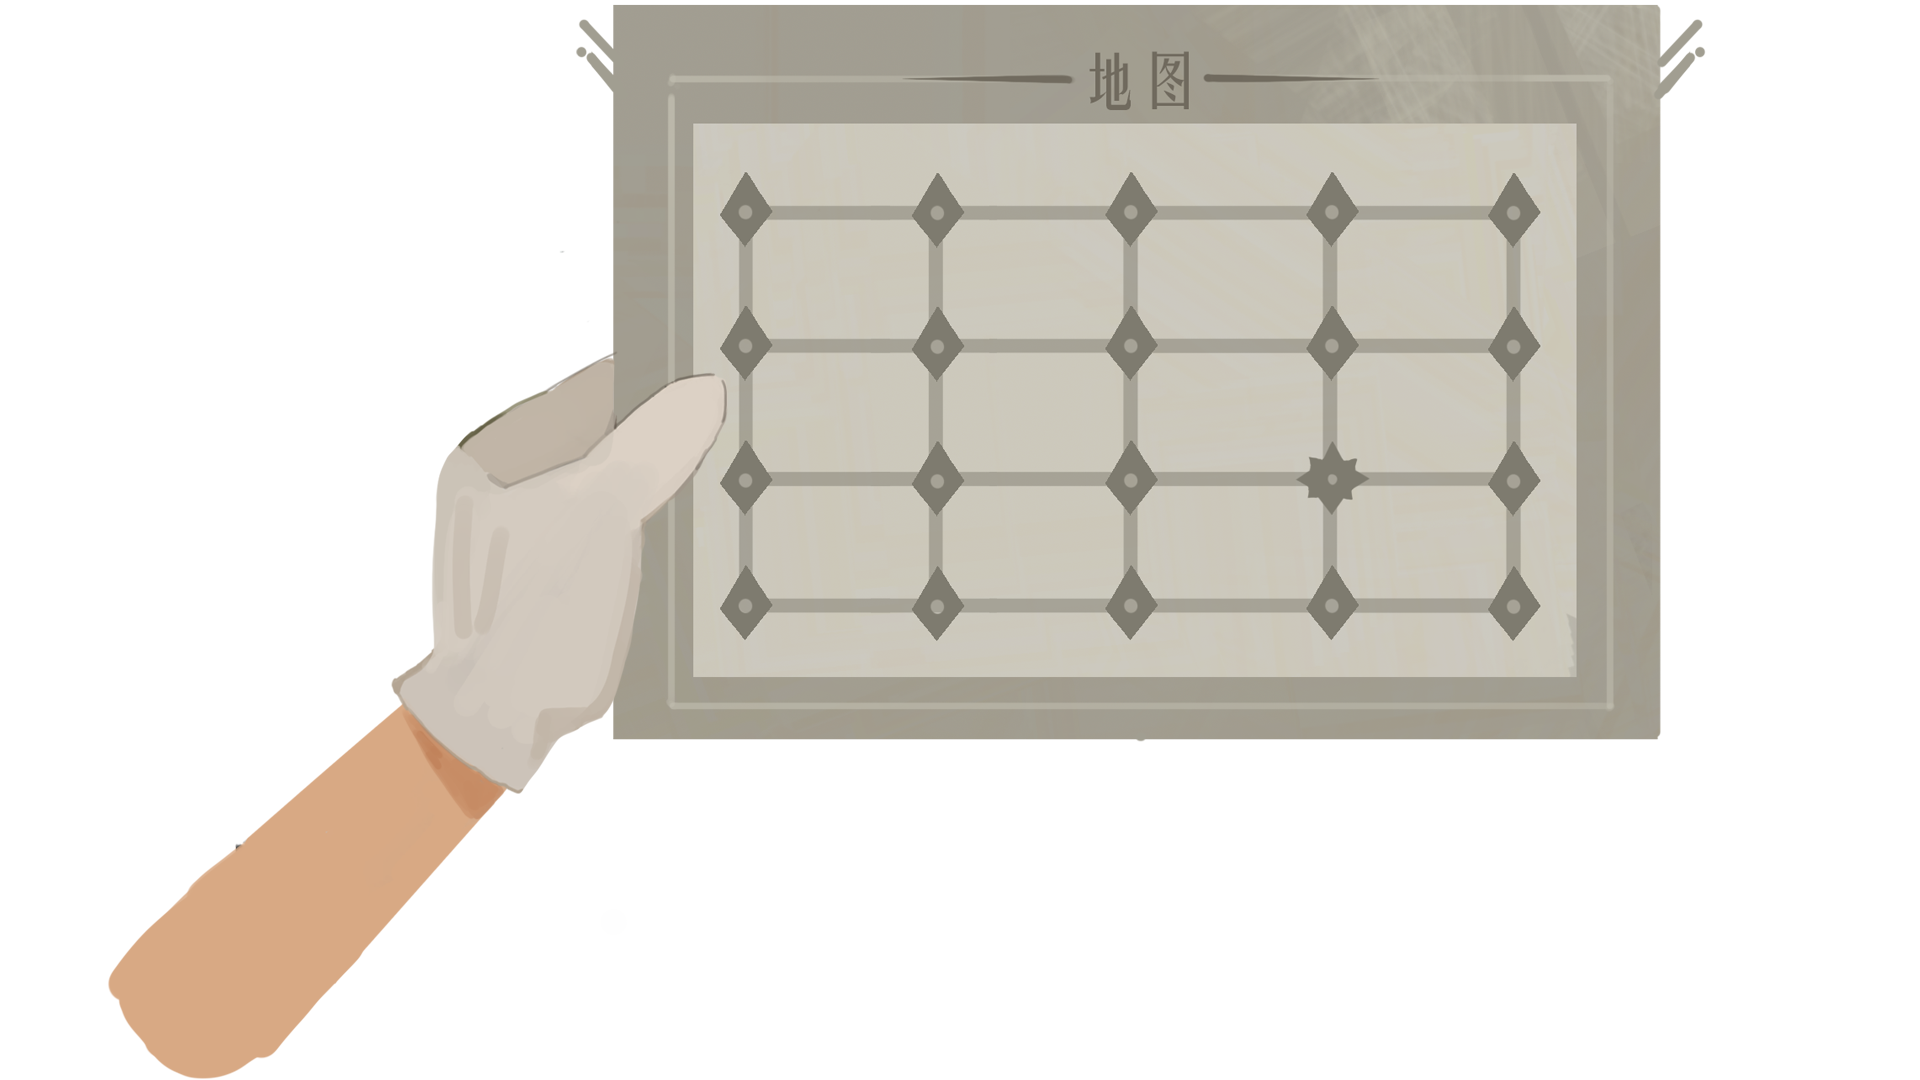
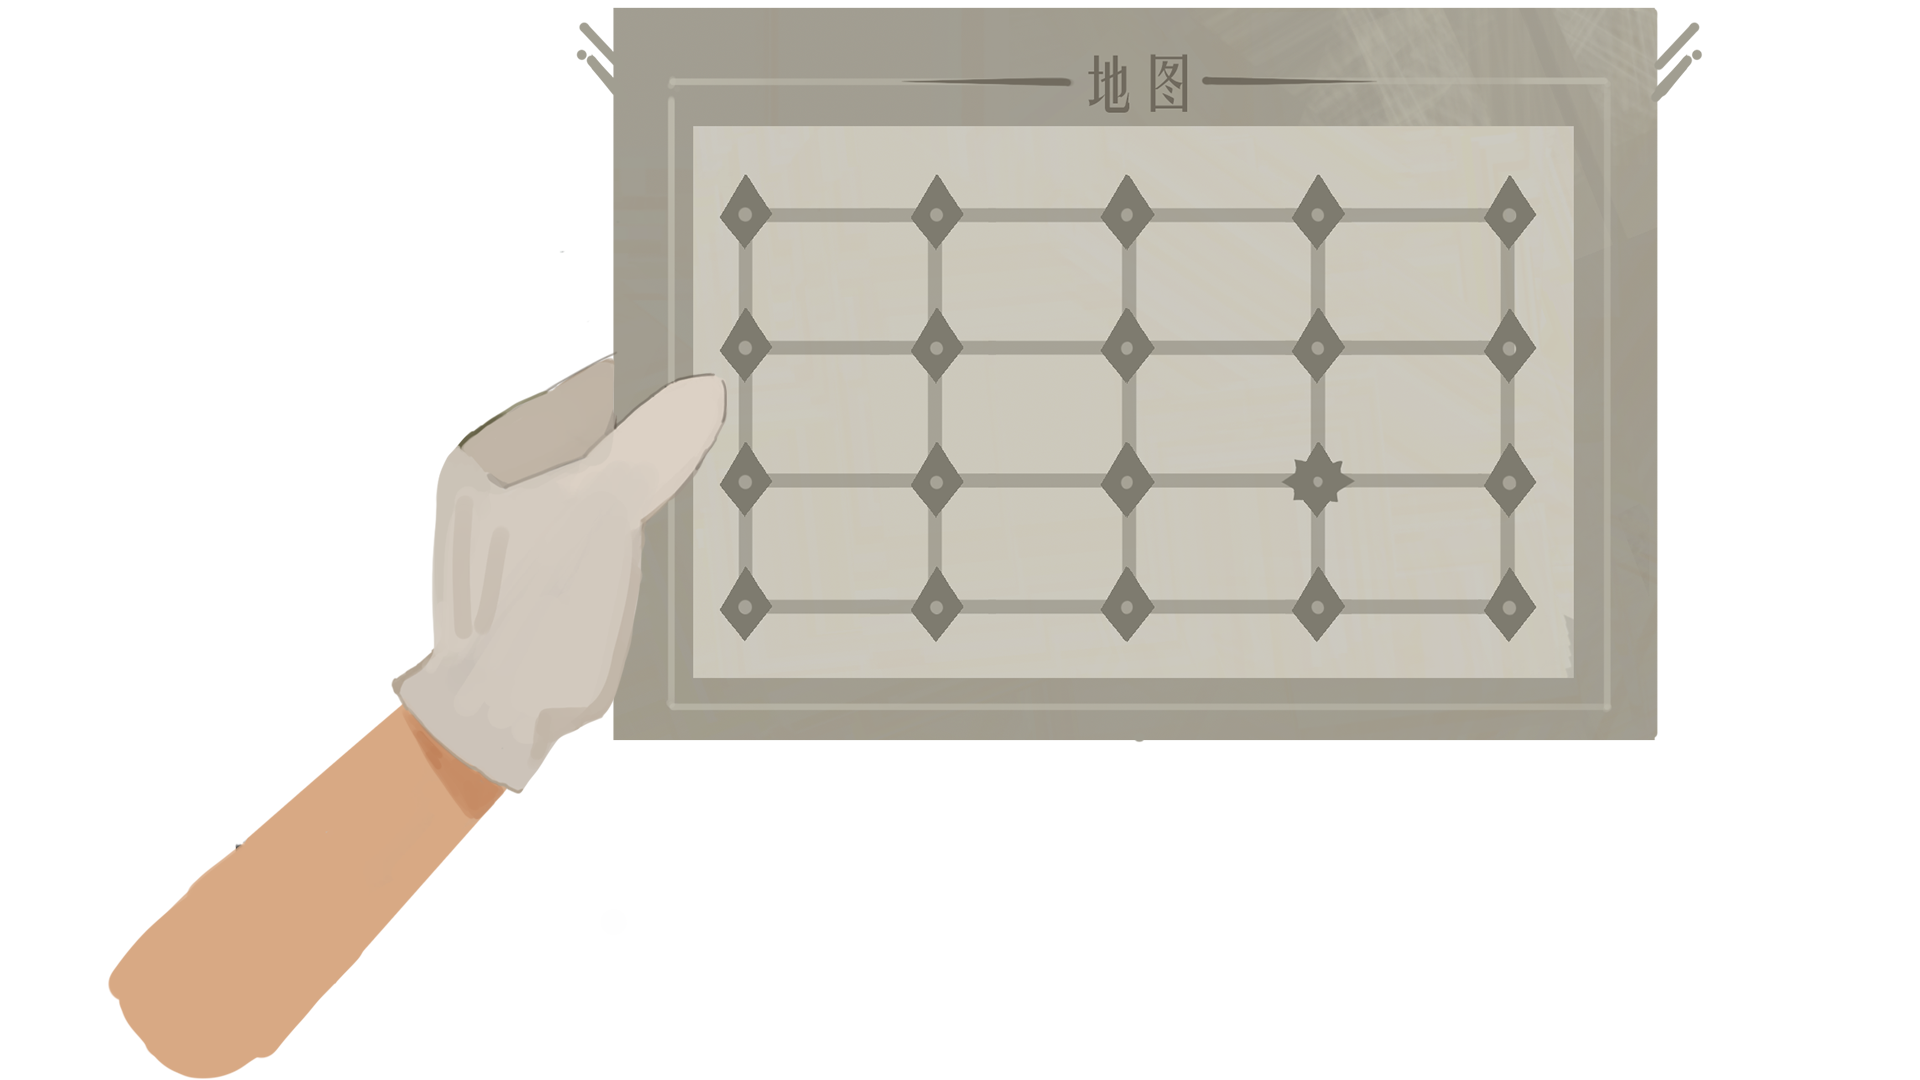
物品栏

diff --git a/Assets/Scipts/Manager/GamePlayMgr/GamePlayManager.cs b/Assets/Scipts/Manager/GamePlayMgr/GamePlayManager.cs
@@ -52,17 +52,17 @@ public class GamePlayManager : MonoSingleton<GamePlayManager>
                     Vector2 mousePosition = Camera.main.ScreenToWorldPoint(Input.mousePosition);
             
                     RaycastHit2D hit = Physics2D.Raycast(mousePosition, Vector2.zero);
-            
-                    if (hit.collider != null&& hit.collider.gameObject.GetComponent<Card>())
-                    {
-                        Debug.Log("Card");
-                        ChangeCard();
-                    }
+                    
                     //Debug.Log(hit.collider.name);
                     if (hit.collider != null&& hit.collider.gameObject.GetComponent<InteractableComponent>())
                     {
                         Debug.Log("interactable");
                         hit.collider.gameObject.GetComponent<InteractableComponent>().Interact();
+                        if (Inventory.Instance.nowItem!=null)
+                        {
+                            hit.collider.gameObject.GetComponent<InteractableComponent>().Interact(Inventory.Instance.nowItem);
+                        }
+                        
                     }
                 }
             }
@@ -85,7 +85,23 @@ public class GamePlayManager : MonoSingleton<GamePlayManager>
 
             if (Input.GetMouseButtonDown(0))
             {
-                if (UIMgr.Instance().GetPanel<GamePanel>("GamePanel").uiSelectedIndex != -1)
+                if (Inventory.Instance.nowItem != null && Inventory.Instance.nowItem.TryGetComponent<CardItem>(out var component))
+                {
+                    Vector2 mousePosition = Camera.main.ScreenToWorldPoint(Input.mousePosition);
+            
+                    RaycastHit2D hit = Physics2D.Raycast(mousePosition, Vector2.zero);
+            
+                    if (hit.collider != null&& hit.collider.gameObject.GetComponent<Card>())
+                    {
+                        Debug.Log("Card");
+                        ChangeCard();
+                    }
+                    else
+                    {
+                        UIMgr.Instance().GetPanel<GamePanel>("GamePanel").ToggleSelectByUI(UIMgr.Instance().GetPanel<GamePanel>("GamePanel").uiSelectedIndex);
+                    }
+                }
+                else if (UIMgr.Instance().GetPanel<GamePanel>("GamePanel").uiSelectedIndex != -1)
                 {
                     UIMgr.Instance().GetPanel<GamePanel>("GamePanel").ToggleSelectByUI(UIMgr.Instance().GetPanel<GamePanel>("GamePanel").uiSelectedIndex);
                 }

diff --git a/Assets/Scipts/Panel/GamePanel.cs b/Assets/Scipts/Panel/GamePanel.cs
@@ -218,6 +218,7 @@ public class GamePanel : BasePanel
         isPropBoxshow = false;
         //print(isPropBoxshow);
         PropImgrt.DOAnchorPos(hidePos, 0.5f);
+        lastUIIndex = -1;
     }
 
     #endregion
@@ -243,7 +244,6 @@ public class GamePanel : BasePanel
             if (lastUIIndex == index && lastUIIndex != -1)
             {
                 lastUIIndex = -1;
-                uiSelectedIndex = -1;
                 GamePlayManager.Instance.isOnInventory = false;
                 return;
             }

diff --git a/Assets/Scipts/Inventory/Inventory.cs b/Assets/Scipts/Inventory/Inventory.cs
@@ -43,13 +43,12 @@ public class Inventory : MonoSingleton<Inventory>
                 Debug.Log(nowItem.GetName());
             }
             nowItem.GetComponent<InventoryComponent>().Used();
-            GamePlayManager.Instance.isOnInventory = true;
         }
     }
 
     public void ResetInventory()
     {
-        nowItem = null;
+        //nowItem = null;
         GamePlayManager.Instance.isOnInventory = false;
         Debug.Log("Reset Inventory");
     }
